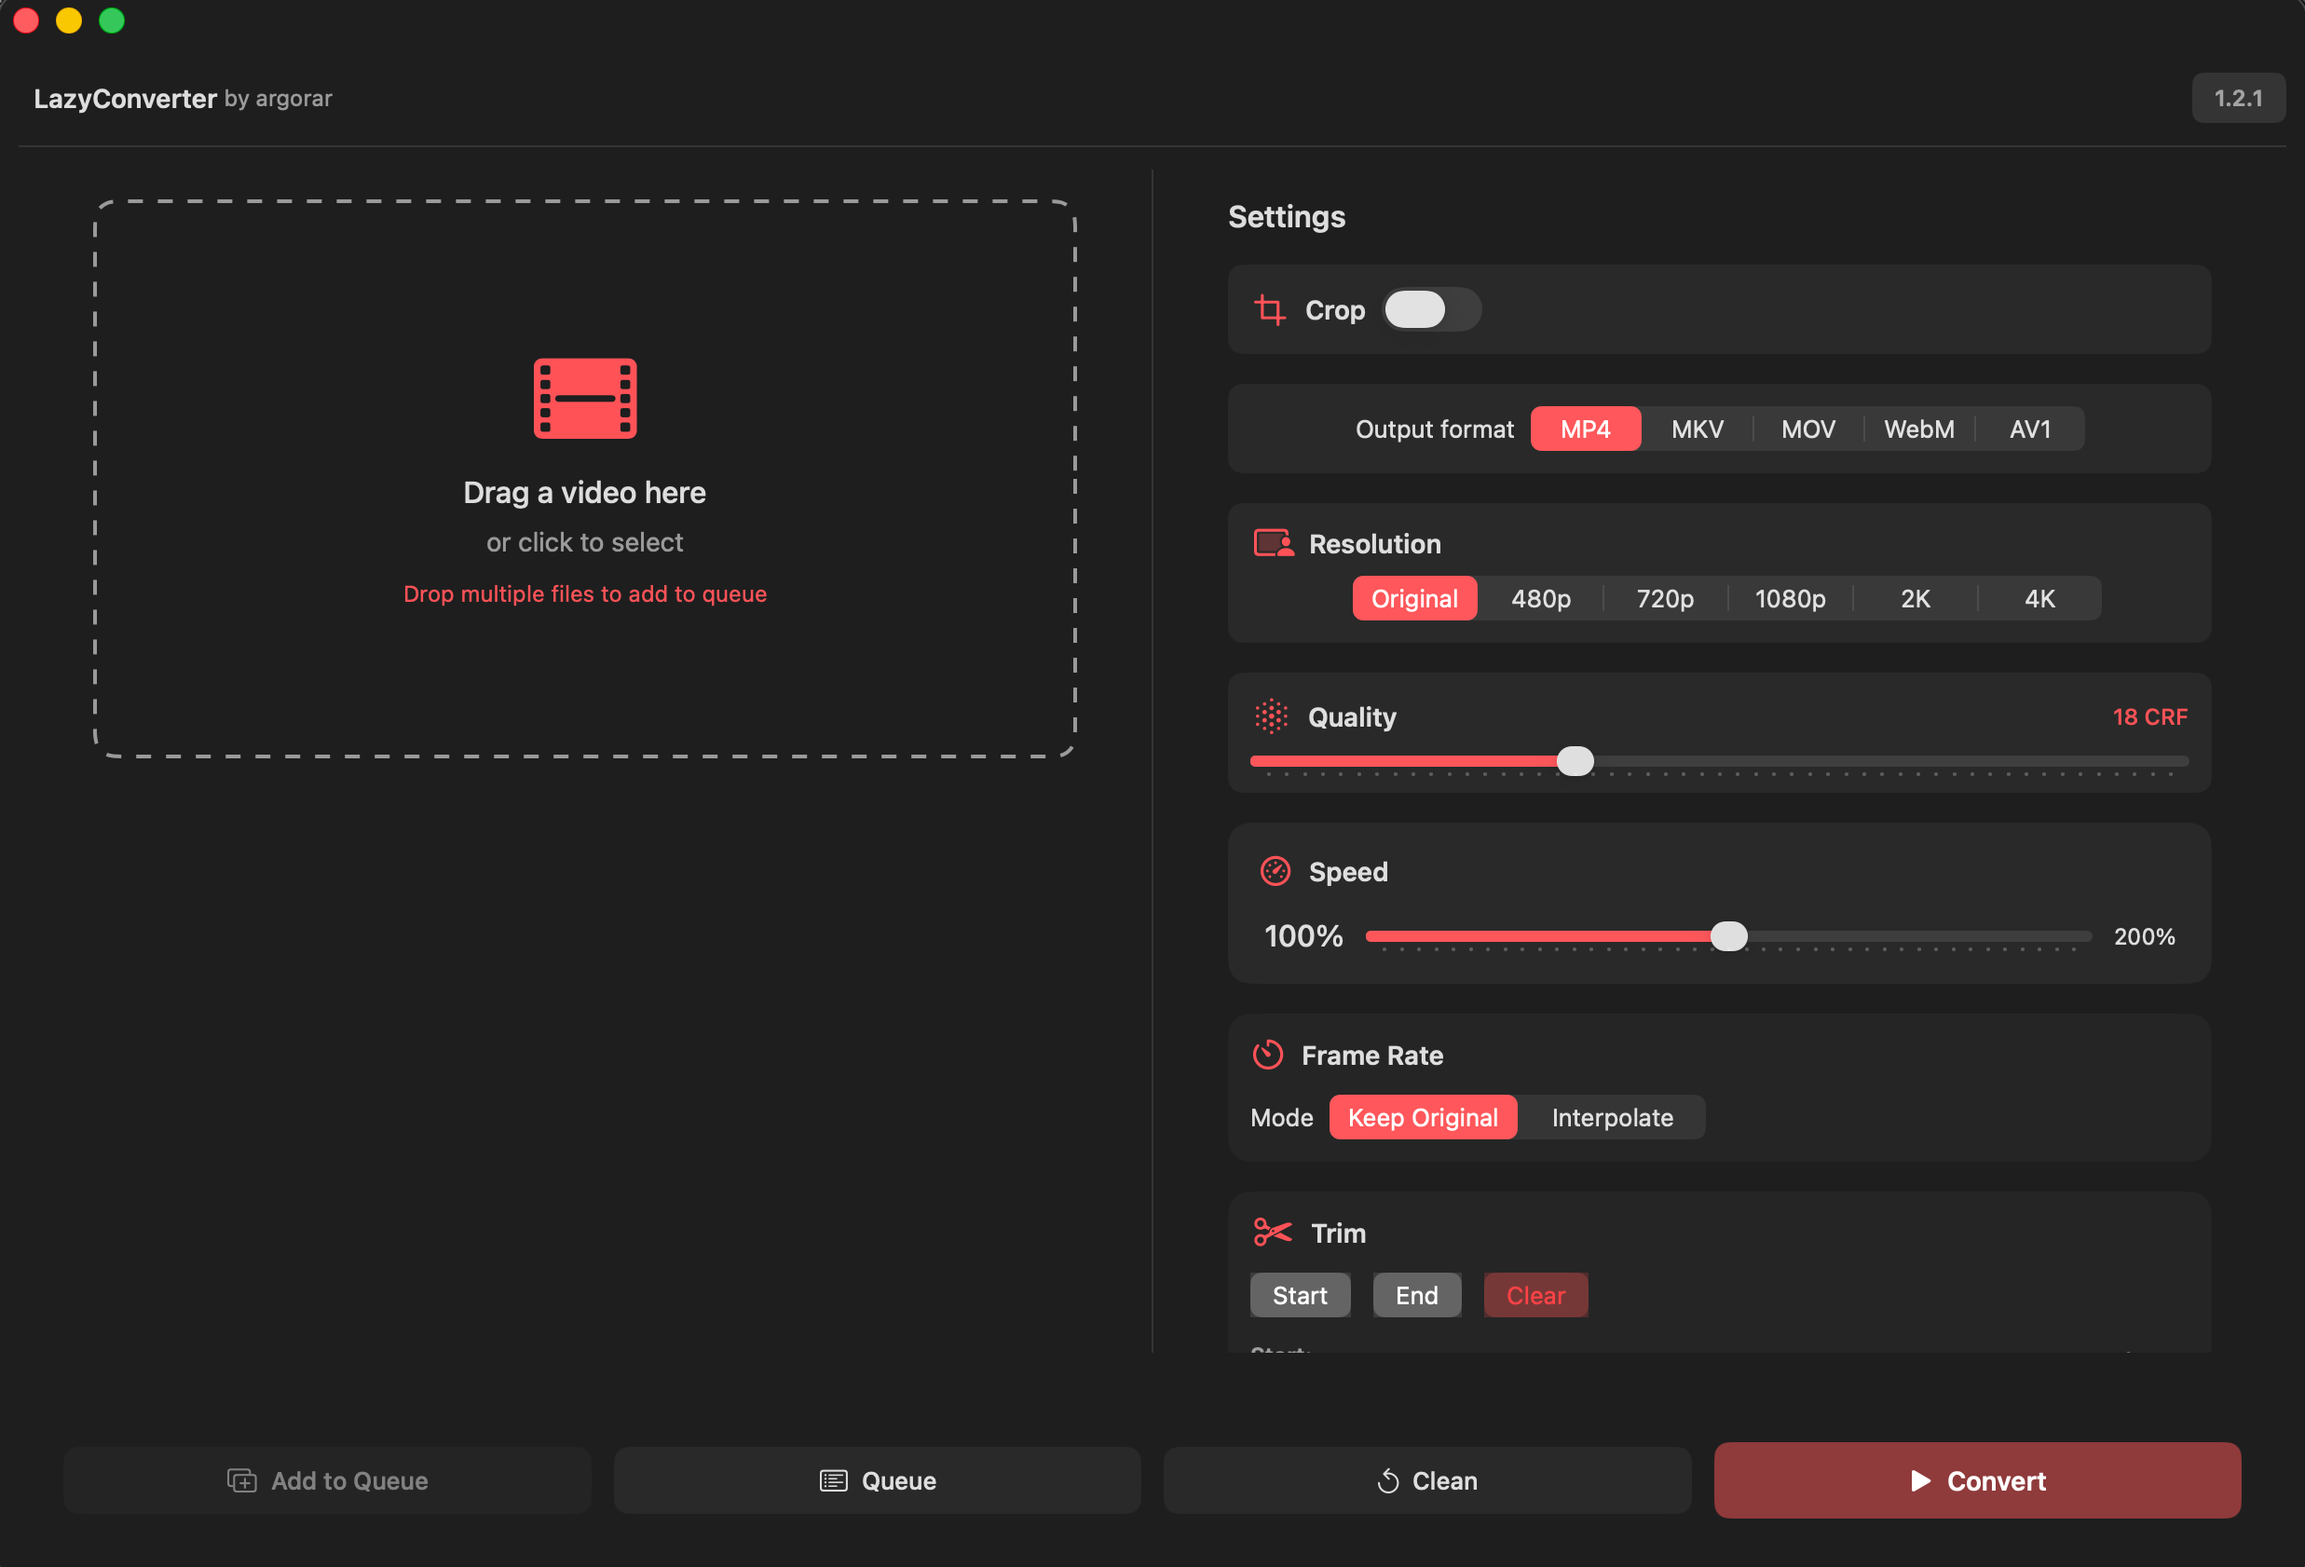
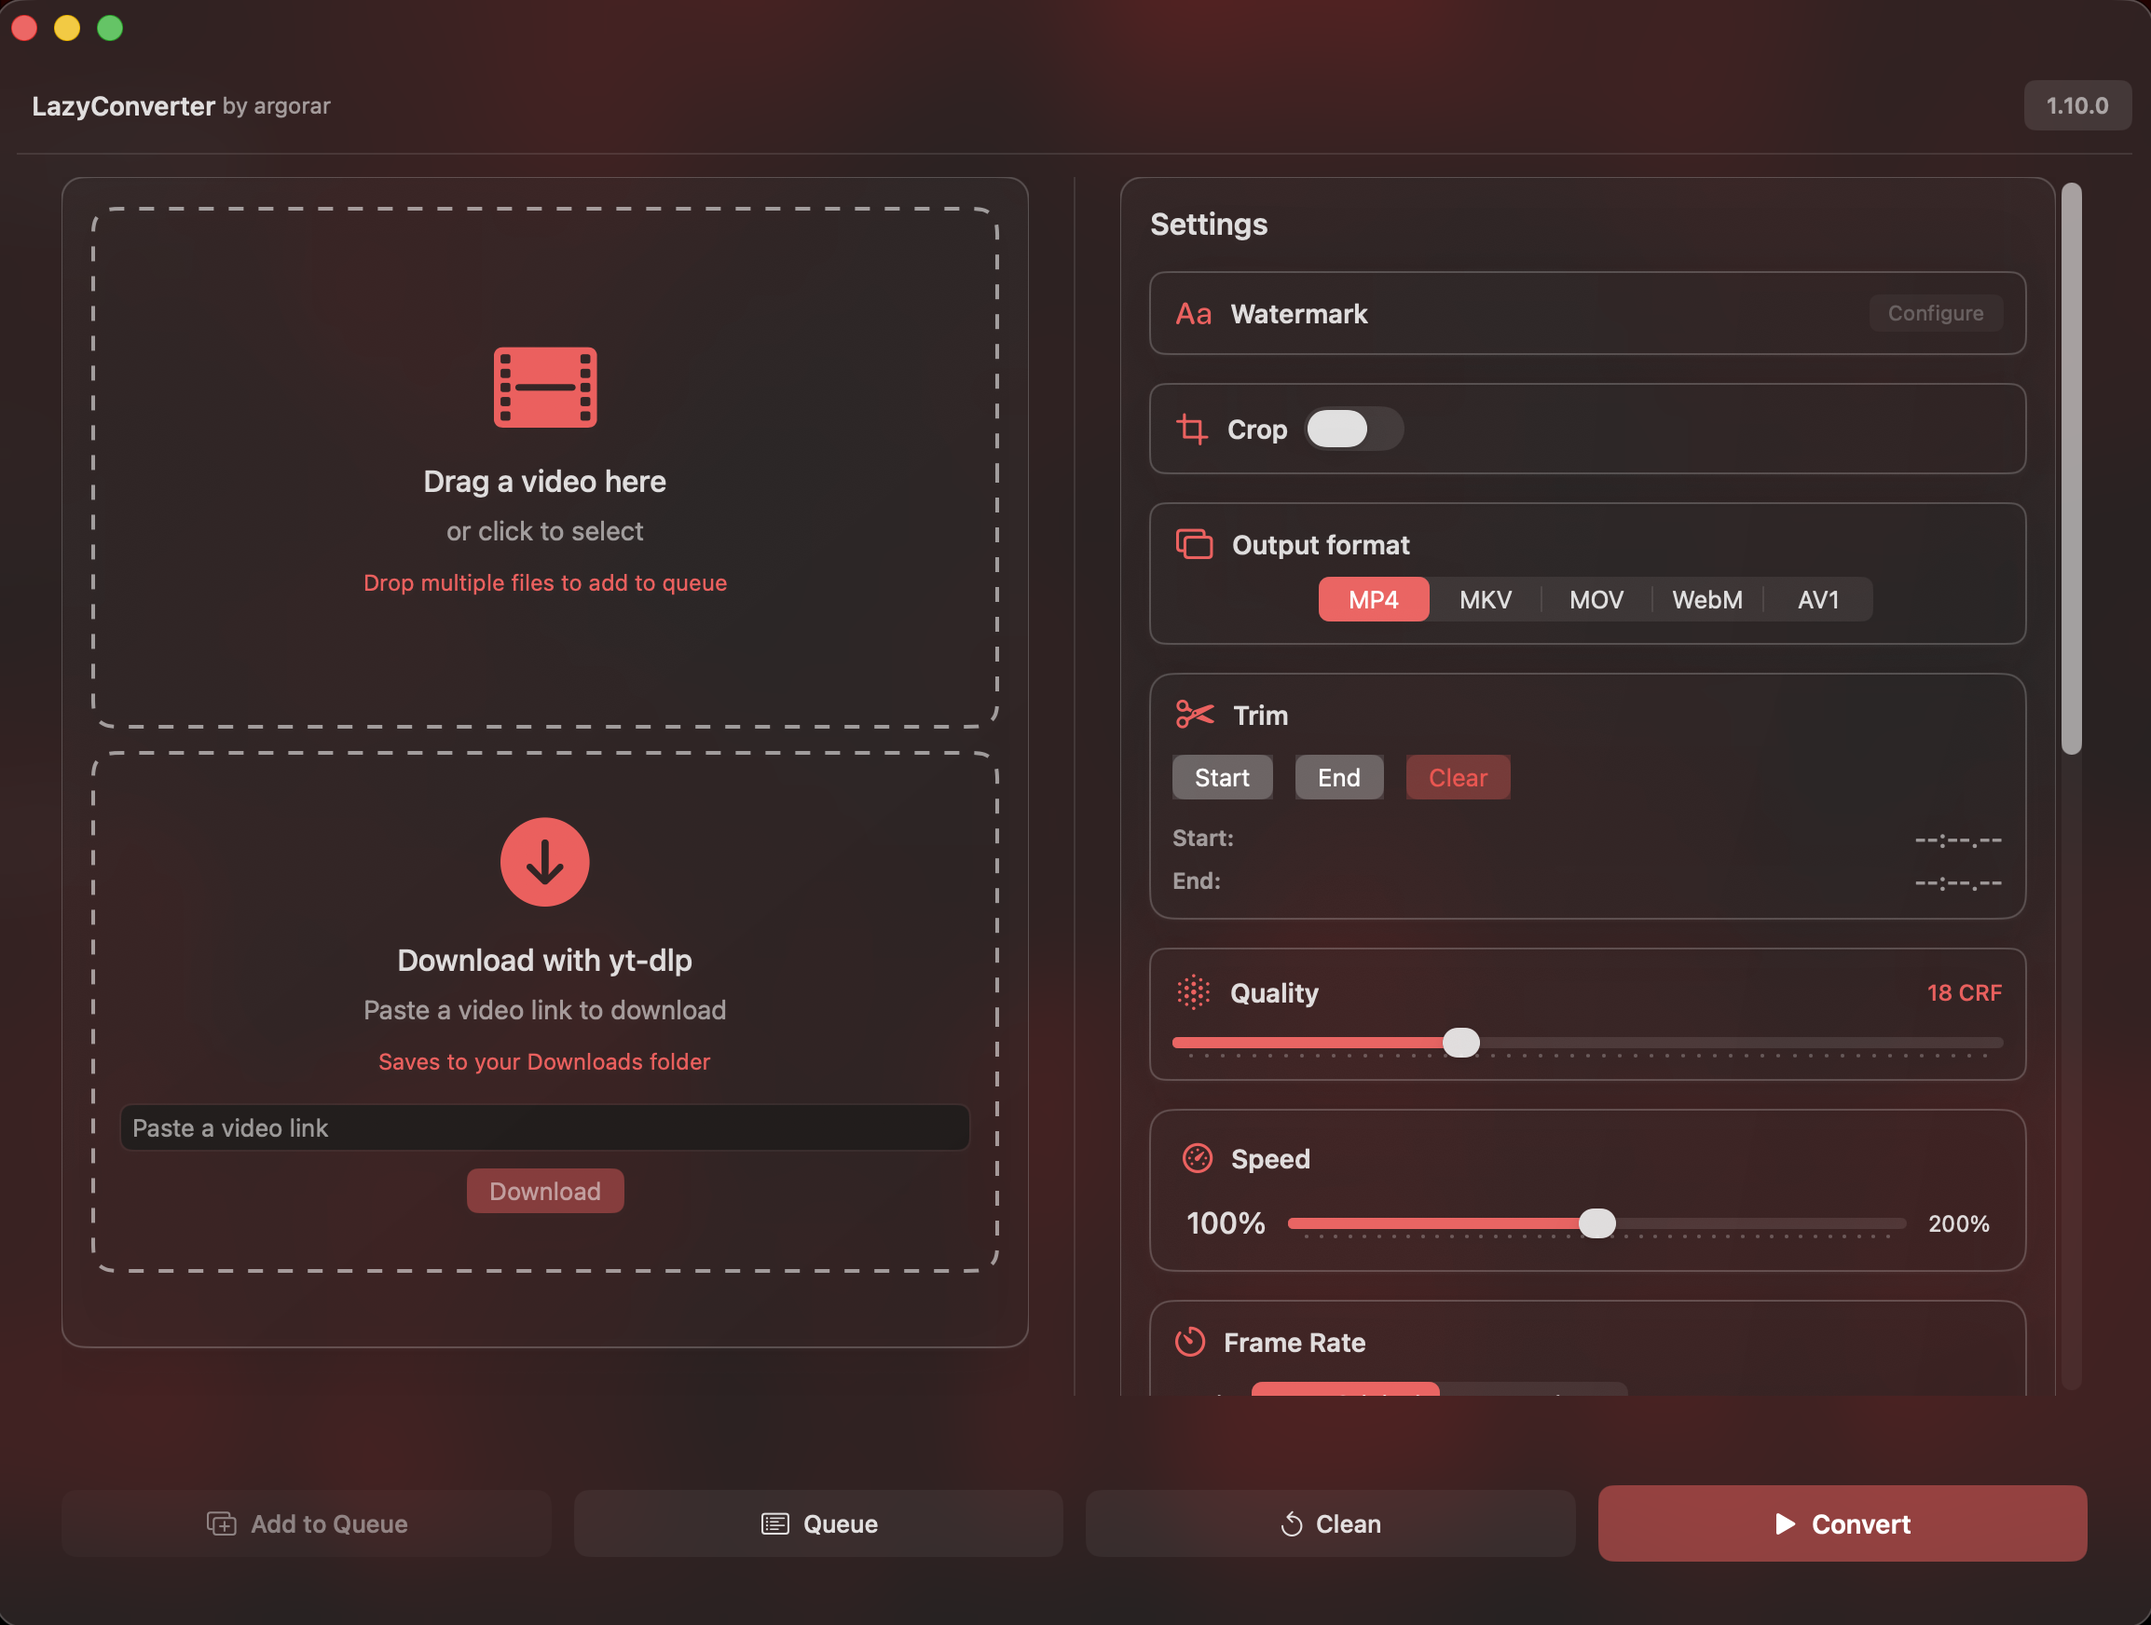
changes for 1.10.0

diff --git a/docs/index.html b/docs/index.html
@@ -6,11 +6,13 @@
   <meta name="viewport" content="width=device-width, initial-scale=1" />
   <title>LazyConverter - Simple Video Conversion for macOS</title>
   <meta name="description"
-    content="LazyConverter is a native macOS app that converts videos quickly, simply, and privately using local FFmpeg." />
+    content="LazyConverter is a native macOS app that converts videos quickly, simply, using FFmpeg." />
   <link rel="stylesheet" href="styles.css" />
 </head>
 
 <body>
+  <div class="glass-orb orb-a" aria-hidden="true"></div>
+  <div class="glass-orb orb-b" aria-hidden="true"></div>
   <div class="bg-noise" aria-hidden="true"></div>
 
   <header class="hero">
@@ -22,7 +24,7 @@
       <p class="eyebrow reveal" data-i18n="eyebrow">macOS • SwiftUI • FFmpeg</p>
       <h1 class="reveal" data-i18n="heroTitle">Convert videos effortlessly, right on your Mac.</h1>
       <p class="lead reveal" data-i18n="heroLead">
-        LazyConverter is a native app for fast conversion and light editing. Everything runs locally with FFmpeg.
+        LazyConverter is a native app for fast conversion and light editing with FFmpeg.
       </p>
       <div class="hero-actions reveal">
         <a class="btn ghost" href="https://github.com/argorar/LazyConverter" target="_blank" rel="noreferrer"
@@ -121,7 +123,8 @@
     <section class="section split" id="requirements">
       <div class="section-title reveal">
         <h2 data-i18n="reqTitle">Requirements</h2>
-        <p data-i18n="reqSubtitle">To run this app you need to have <strong>FFmpeg</strong> installed on your system.</p>
+        <p data-i18n="reqSubtitle">To run this app you need to have <strong>FFmpeg</strong> installed on your system.
+        </p>
         <p data-i18n="reqCommandText" style="margin-top: 12px;">Execute the next commands to install them:</p>
       </div>
       <div class="terminal-box reveal">
@@ -149,10 +152,10 @@ brew install homebrew-ffmpeg/ffmpeg/ffmpeg --with-libvidstab</code></pre>
   <script>
     const translations = {
       en: {
-        eyebrow: "macOS • SwiftUI • Local FFmpeg",
+        eyebrow: "macOS • SwiftUI • FFmpeg",
         heroTitle: "Convert videos effortlessly, right on your Mac.",
         heroLead:
-          "LazyConverter is a native app for fast conversion and light editing. Everything runs locally with FFmpeg.",
+          "LazyConverter is a native app for fast conversion and light editing with FFmpeg.",
         ctaGithub: "View on GitHub",
         ctaFeatures: "See features",
         ctaDownload: "Download",
@@ -195,15 +198,15 @@ brew install homebrew-ffmpeg/ffmpeg/ffmpeg --with-libvidstab</code></pre>
         footer: "LazyConverter — Video conversion made simple on Mac."
       },
       es: {
-        eyebrow: "macOS • SwiftUI • FFmpeg local",
+        eyebrow: "macOS • SwiftUI • FFmpeg",
         heroTitle: "Convierte videos sin esfuerzo, directo en tu Mac.",
         heroLead:
-          "LazyConverter es una app nativa para conversión rápida y edición básica. Todo se procesa localmente con FFmpeg.",
+          "LazyConverter es una app nativa para conversión rápida y edición con FFmpeg.",
         ctaGithub: "Ver en GitHub",
         ctaFeatures: "Ver características",
         ctaDownload: "Descargar",
         featuresTitle: "Características clave",
-        featuresSubtitle: "Un set compacto de herramientas para conversión y edición ligera.",
+        featuresSubtitle: "Un set compacto de herramientas para conversión y edición.",
         feature1Title: "Conversión flexible",
         feature1Body:
           "Exporta a MP4, MKV y otros formatos comunes. Ajusta resolución (original, 4K, 1080p, 720p, etc.).",

diff --git a/docs/styles.css b/docs/styles.css
@@ -1,12 +1,12 @@
 @import url("https://fonts.googleapis.com/css2?family=Space+Grotesk:wght@400;500;600;700&family=IBM+Plex+Mono:wght@400;500&display=swap");
 
 :root {
-  --bg: #1c1c1e;
-  --bg-2: #121214;
+  --bg: #0f141f;
+  --bg-2: #0a0f18;
   --ink: #f5f5f7;
   --accent: #0a84ff;
   --accent-2: #ff453a;
-  --card: #2a2a2e;
+  --card: rgba(255, 255, 255, 0.08);
   --muted: #b3b3b8;
   --shadow: 0 24px 70px rgba(0, 0, 0, 0.45);
 }
@@ -19,7 +19,36 @@ body {
   margin: 0;
   font-family: "Space Grotesk", system-ui, -apple-system, sans-serif;
   color: var(--ink);
-  background: radial-gradient(circle at top left, #2a2a2e 0%, var(--bg) 52%, var(--bg-2) 100%);
+  background:
+    radial-gradient(1400px 900px at 12% 10%, rgba(45, 212, 191, 0.2), transparent 55%),
+    radial-gradient(1200px 700px at 85% 12%, rgba(255, 77, 79, 0.24), transparent 58%),
+    linear-gradient(160deg, var(--bg), var(--bg-2));
+  min-height: 100vh;
+  overflow-x: hidden;
+}
+
+.glass-orb {
+  position: fixed;
+  border-radius: 50%;
+  filter: blur(70px);
+  z-index: -2;
+  pointer-events: none;
+}
+
+.orb-a {
+  width: 360px;
+  height: 360px;
+  top: -90px;
+  left: -80px;
+  background: rgba(45, 212, 191, 0.32);
+}
+
+.orb-b {
+  width: 420px;
+  height: 420px;
+  right: -100px;
+  top: 28%;
+  background: rgba(255, 77, 79, 0.36);
 }
 
 body.lang-fade [data-i18n] {
@@ -59,8 +88,9 @@ body.lang-fade [data-i18n] {
   align-self: flex-start;
   padding: 6px;
   border-radius: 999px;
-  background: rgba(255, 255, 255, 0.08);
-  border: 1px solid rgba(255, 255, 255, 0.12);
+  background: rgba(255, 255, 255, 0.12);
+  border: 1px solid rgba(255, 255, 255, 0.2);
+  backdrop-filter: blur(12px) saturate(130%);
   margin-bottom: 14px;
 }
 
@@ -159,13 +189,13 @@ h1 {
 .mock-frame {
   padding: 12px;
   border-radius: 22px;
-  background: transparent;
+  background: rgba(255, 255, 255, 0.08);
+  border: 1px solid rgba(255, 255, 255, 0.2);
   box-shadow:
     0 30px 80px -20px rgba(0, 0, 0, 0.6),
     0 0 60px rgba(10, 132, 255, 0.15);
-  /* Accent glow */
   max-width: 520px;
-  backdrop-filter: blur(10px);
+  backdrop-filter: blur(16px) saturate(130%);
 }
 
 .mock-screen {
@@ -207,7 +237,8 @@ h1 {
   padding: 20px;
   border-radius: 18px;
   box-shadow: 0 10px 30px rgba(0, 0, 0, 0.35);
-  border: 1px solid rgba(255, 255, 255, 0.06);
+  border: 1px solid rgba(255, 255, 255, 0.18);
+  backdrop-filter: blur(14px) saturate(125%);
 }
 
 .card h3 {
@@ -238,7 +269,8 @@ h1 {
   display: flex;
   gap: 12px;
   align-items: center;
-  border: 1px solid rgba(255, 255, 255, 0.08);
+  border: 1px solid rgba(255, 255, 255, 0.18);
+  backdrop-filter: blur(14px) saturate(125%);
 }
 
 .step-num {
@@ -254,14 +286,15 @@ h1 {
 }
 
 .cta {
-  background: linear-gradient(120deg, rgba(10, 132, 255, 0.18), rgba(255, 69, 58, 0.15));
+  background: linear-gradient(120deg, rgba(45, 212, 191, 0.18), rgba(255, 77, 79, 0.22));
   border-radius: 24px;
   padding: 28px 32px;
   display: flex;
   align-items: center;
   justify-content: space-between;
   gap: 20px;
-  border: 1px solid rgba(255, 255, 255, 0.08);
+  border: 1px solid rgba(255, 255, 255, 0.2);
+  backdrop-filter: blur(16px) saturate(130%);
 }
 
 .footer {

diff --git a/LazyConverter/Models/VideoStabilizationLevel.swift b/LazyConverter/Models/VideoStabilizationLevel.swift
@@ -26,11 +26,11 @@ enum VideoStabilizationLevel: String, CaseIterable, Codable {
     var transformParameters: String {
         switch self {
         case .low:
-            return "smoothing=6:optalgo=gauss:maxshift=12:maxangle=0.05:crop=black:optzoom=0:zoomspeed=0.10:interpol=bicubic"
+            return "smoothing=6:optalgo=gauss:maxshift=12:maxangle=0:crop=black:optzoom=0:zoomspeed=0.10:interpol=bicubic"
         case .medium:
-            return "smoothing=10:optalgo=gauss:maxshift=20:maxangle=0.08:crop=black:optzoom=0:zoomspeed=0.10:interpol=bicubic"
+            return "smoothing=10:optalgo=gauss:maxshift=20:maxangle=0:crop=black:optzoom=0:zoomspeed=0.10:interpol=bicubic"
         case .high:
-            return "smoothing=22:optalgo=gauss:maxshift=32:maxangle=0.12:crop=black:optzoom=1:zoomspeed=0.08:interpol=bicubic"
+            return "smoothing=22:optalgo=gauss:maxshift=32:maxangle=0:crop=black:optzoom=1:zoomspeed=0.08:interpol=bicubic"
         }
     }
 

diff --git a/README.md b/README.md
@@ -60,6 +60,12 @@ brew tap homebrew-ffmpeg/ffmpeg
 brew install homebrew-ffmpeg/ffmpeg/ffmpeg --with-libvidstab
 ```
 
+Optional to download videos from internet use yt-dlp:
+
+```bash
+brew install yt-dlp
+```
+
 ## ⬇ Downloads
 
 - **LazyConverter-Standalone**: Includes FFmpeg and FFprobe inside the app bundle. Works out of the box.
